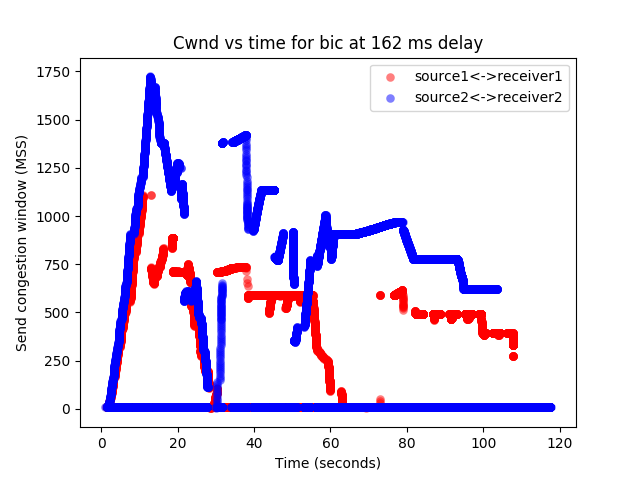
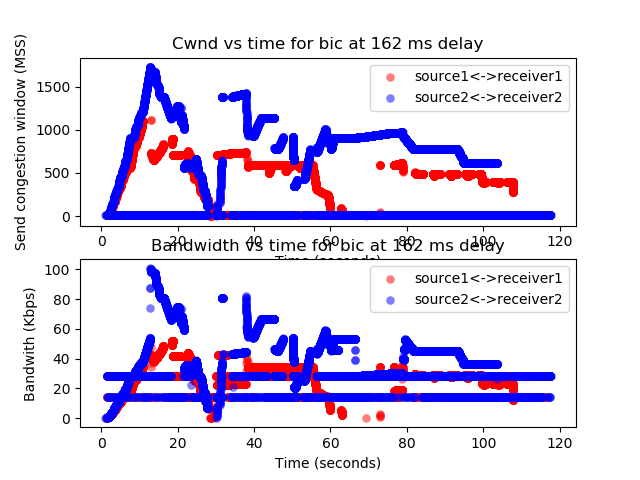
Added bandwidth plots

diff --git a/plot.py b/plot.py
@@ -21,8 +21,10 @@ def plot_tcp_data(tcp_alg,delay):
     receiver2 = '10.0.0.4'
     times1 = []
     cwnds1 = []
+    bw1 = []
     times2 = []
     cwnds2 = []
+    bw2 = []
     with open(file_name,'r') as f:
         line = f.readline()
         while line:
@@ -48,24 +50,37 @@ def plot_tcp_data(tcp_alg,delay):
             # Smoothed estimated RTT for this connection (in ms)
             rtt = int(tokens[9])
             receiver_window = int(tokens[10])
+            # compute the bandwith in kilobytes
+            bw = cwnd * bytes_in_packet /1024
             if sender1 in sender or sender1 in receiver:
                 times1.append(time)
                 cwnds1.append(cwnd)
+                bw1.append(bw)
             elif sender2 in sender or sender2 in receiver:
                 times2.append(time)
                 cwnds2.append(cwnd)
+                bw2.append(bw)
             else:
                 raise Exception('error parsing line' + line)
 
             line = f.readline()
     fig = plt.figure()
-    ax = fig.add_subplot(111)
+    ax = fig.add_subplot(211)
 
     ax.scatter(times1,cwnds1,c='r',label='source1<->receiver1',linewidths=0.1,alpha=.5)
     ax.scatter(times2,cwnds2,c='b',label='source2<->receiver2',linewidths=0.1,alpha=.5)
     plt.title('Cwnd vs time for {} at {} ms delay'.format(tcp_alg,delay))
     plt.xlabel('Time (seconds)')
     plt.ylabel('Send congestion window (MSS)')
+    plt.legend(loc = 'upper right')
+
+    ax2 = fig.add_subplot(212)
+
+    ax2.scatter(times1,bw1,c='r',label='source1<->receiver1',linewidths=0.1,alpha=.5)
+    ax2.scatter(times2,bw2,c='b',label='source2<->receiver2',linewidths=0.1,alpha=.5)
+    plt.title('Bandwidth vs time for {} at {} ms delay'.format(tcp_alg,delay))
+    plt.xlabel('Time (seconds)')
+    plt.ylabel('Bandwith (Kbps)')
     plt.legend(loc = 'upper right')
     plt.savefig('tcp_probe_{}_{}_ms_delay.png'.format(tcp_alg,delay))
     plt.show()
